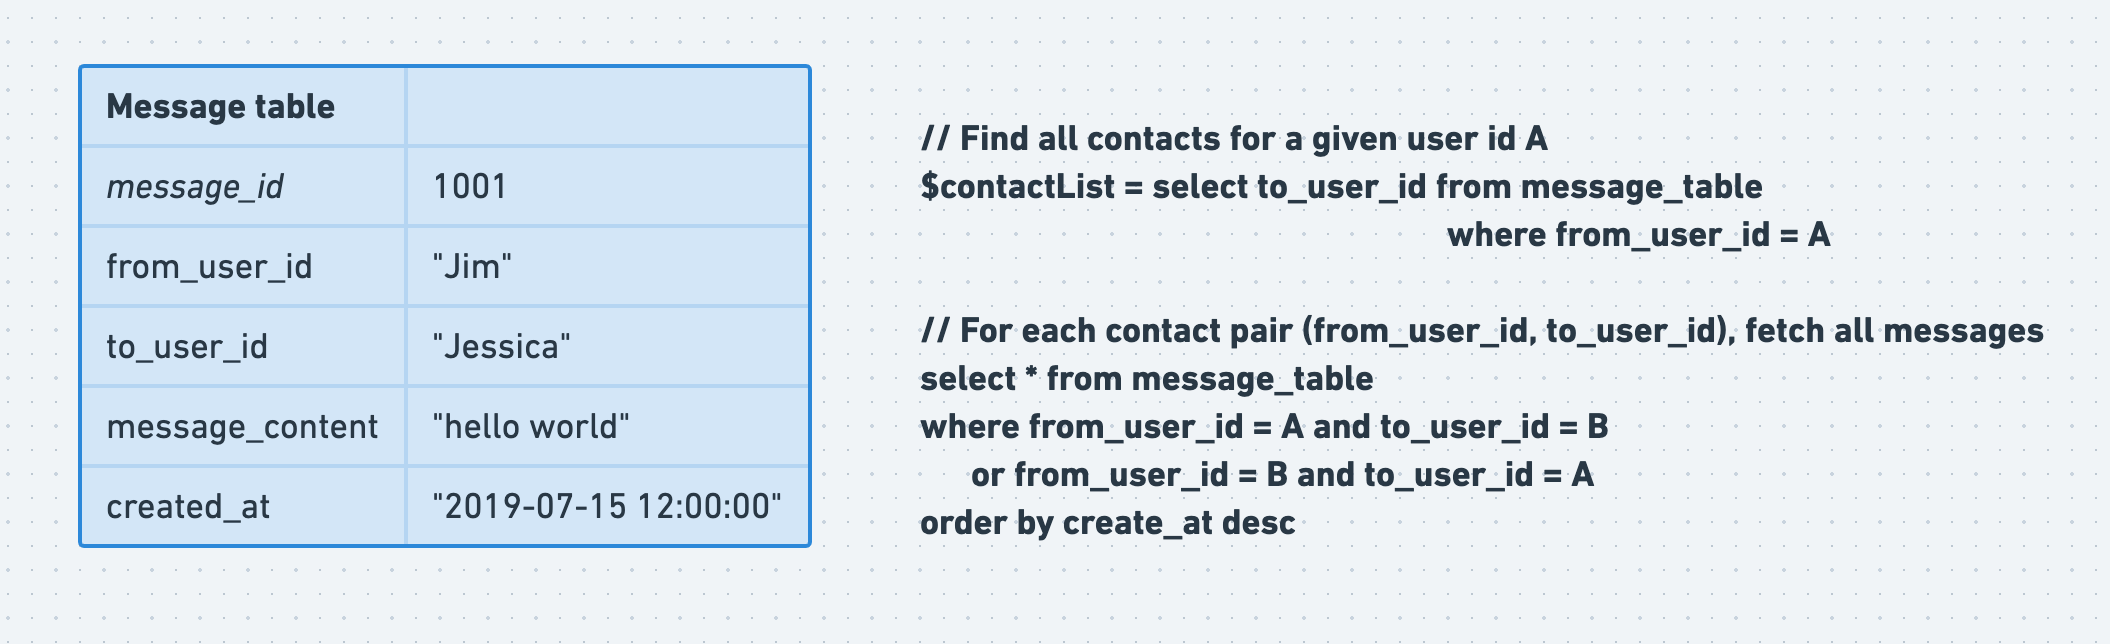
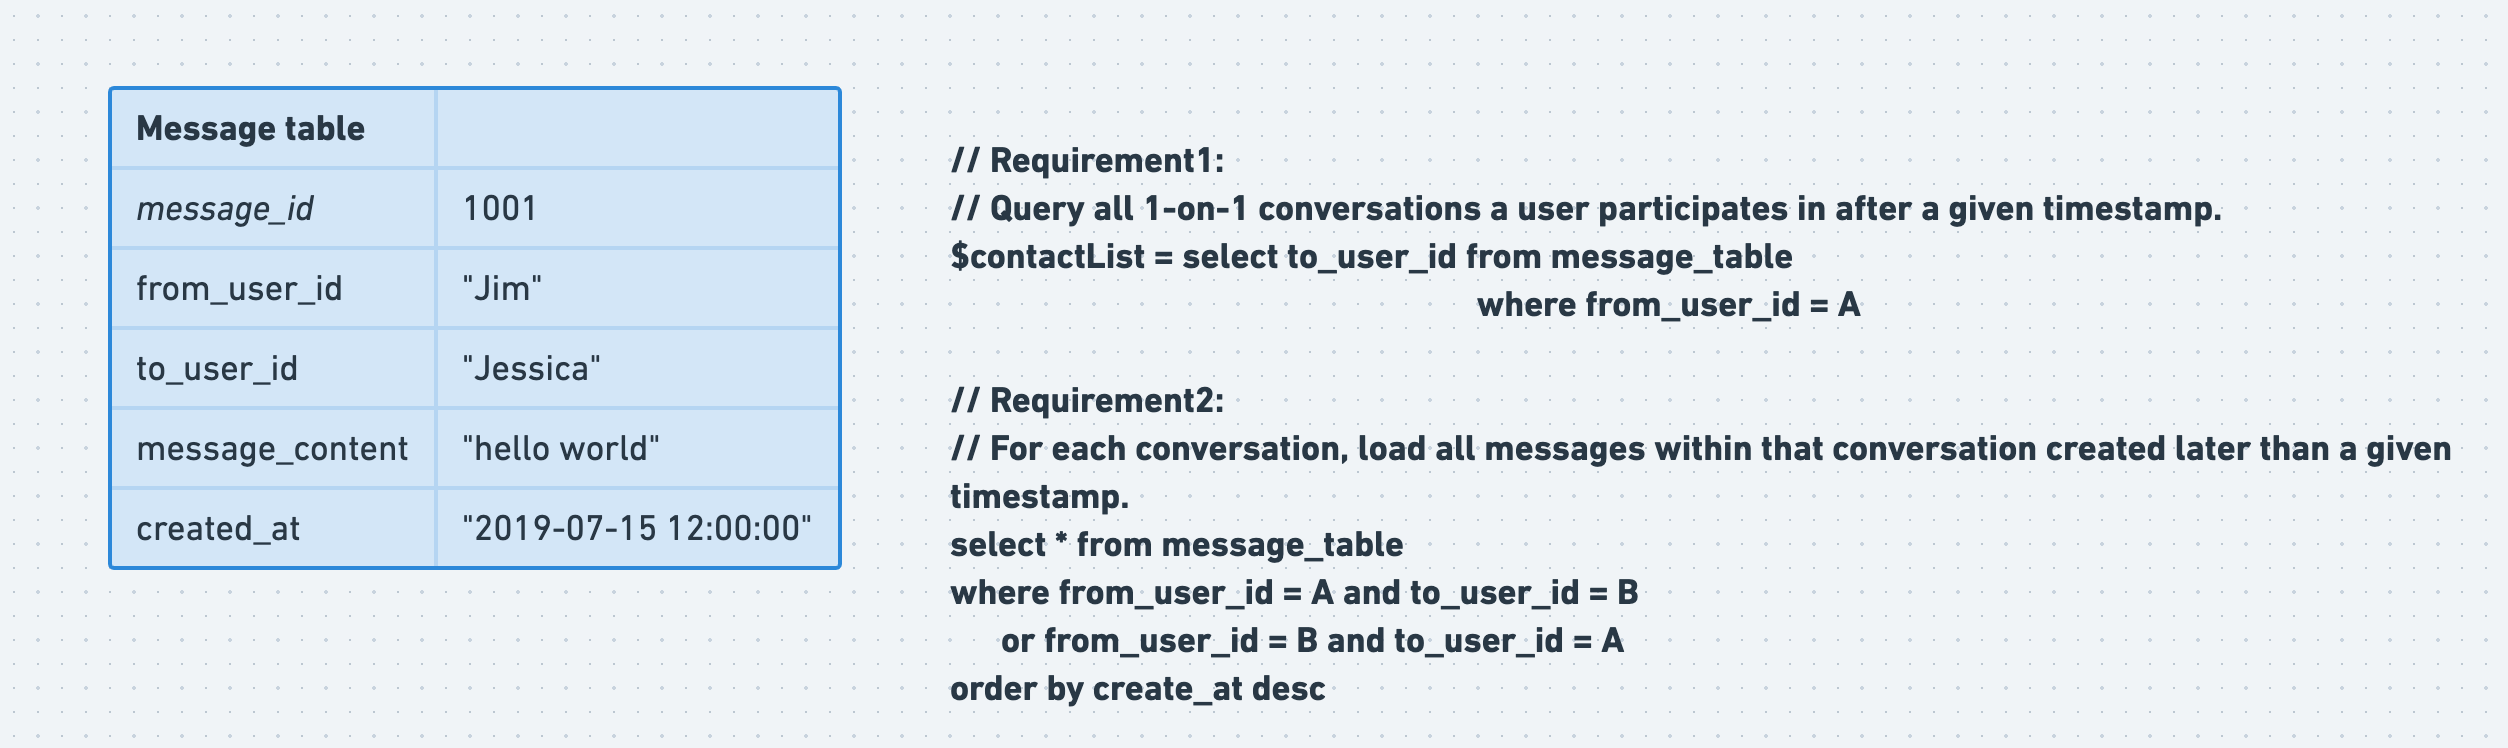
refactor

Changed region(s): [[0.0308, 0.0932, 0.9858, 0.9627]]

diff --git a/scenario_messenger/Storage_grounpChatRecentContact.md b/scenario_messenger/Storage_grounpChatRecentContact.md
@@ -1,50 +1,32 @@
 - [One-to-One chat storage](#one-to-one-chat-storage)
-  - [Schema](#schema)
-  - [Cons](#cons)
-  - [Optimization: Message content should be decoupled from sender and receiver](#optimization-message-content-should-be-decoupled-from-sender-and-receiver)
-- [Group chat storage](#group-chat-storage)
   - [Storage requirements](#storage-requirements)
+  - [Initial schema](#initial-schema)
+  - [Improved schema: Decoupled msg content from sender and receiver](#improved-schema-decoupled-msg-content-from-sender-and-receiver)
+- [Group chat storage](#group-chat-storage)
+  - [Storage requirements](#storage-requirements-1)
   - [Schema design](#schema-design)
     - [Pros](#pros)
-    - [Cons](#cons-1)
+    - [Cons](#cons)
     - [Optimization: Loading recent contacts should be faster](#optimization-loading-recent-contacts-should-be-faster)
     - [Optimization: User could customize properties on chat thread](#optimization-user-could-customize-properties-on-chat-thread)
     - [Optimization: Users who just joined could only see new messages](#optimization-users-who-just-joined-could-only-see-new-messages)
       - [SQL vs NoSQL](#sql-vs-nosql)
 
 # One-to-One chat storage
-## Schema
+## Storage requirements
+* Requirement1: Query all 1-on-1 conversations a user participates in after a given timestamp.
+* Requirement2: For each conversation, load all messages within that conversation created later than a given timestamp.
+
+## Initial schema
 
 ![](../.gitbook/assets/im_groupchat_recentContact_one_to_one.png)
 
-## Cons
-* Determine the thread\_list to be displayed
-* To load all messages in a chat, the following query needs to be executed. The query has a lot of where clause
-* Suppose to be used in a group chat scenario. The same message needs to copied multiple times for different to\_user\_id. Not easy to be extended to group chat schema
-
-## Optimization: Message content should be decoupled from sender and receiver
-
+## Improved schema: Decoupled msg content from sender and receiver
 * Intuition:
   * Even if sender A deletes the message on his machine, the receiver B should still be able to see it
   * Create a message\_content table and message\_index table
-* message\_content
 
-| Columns    | Type      | Example             |
-| ---------- | --------- | ------------------- |
-| messageId  | integer   | 1001                |
-| content    | string    | hello world         |
-| create\_at | timestamp | 2019-07-15 12:00:00 |
-
-* message\_index
-  * ??? What are the reason isInbox is needed
-
-| Columns        | Type    | Example                 |
-| -------------- | ------- | ----------------------- |
-| messageId      | string  | 1029                    |
-| from\_user\_id | integer | sender                  |
-| to\_user\_id   | integer | receiver                |
-| isInbox        | integer | 1 (inbox) / 0 (sendbox) |
-
+![](../.gitbook/assets/im_groupchat_recentContact_1to1_decouple.png)
 
 # Group chat storage
 ## Storage requirements
